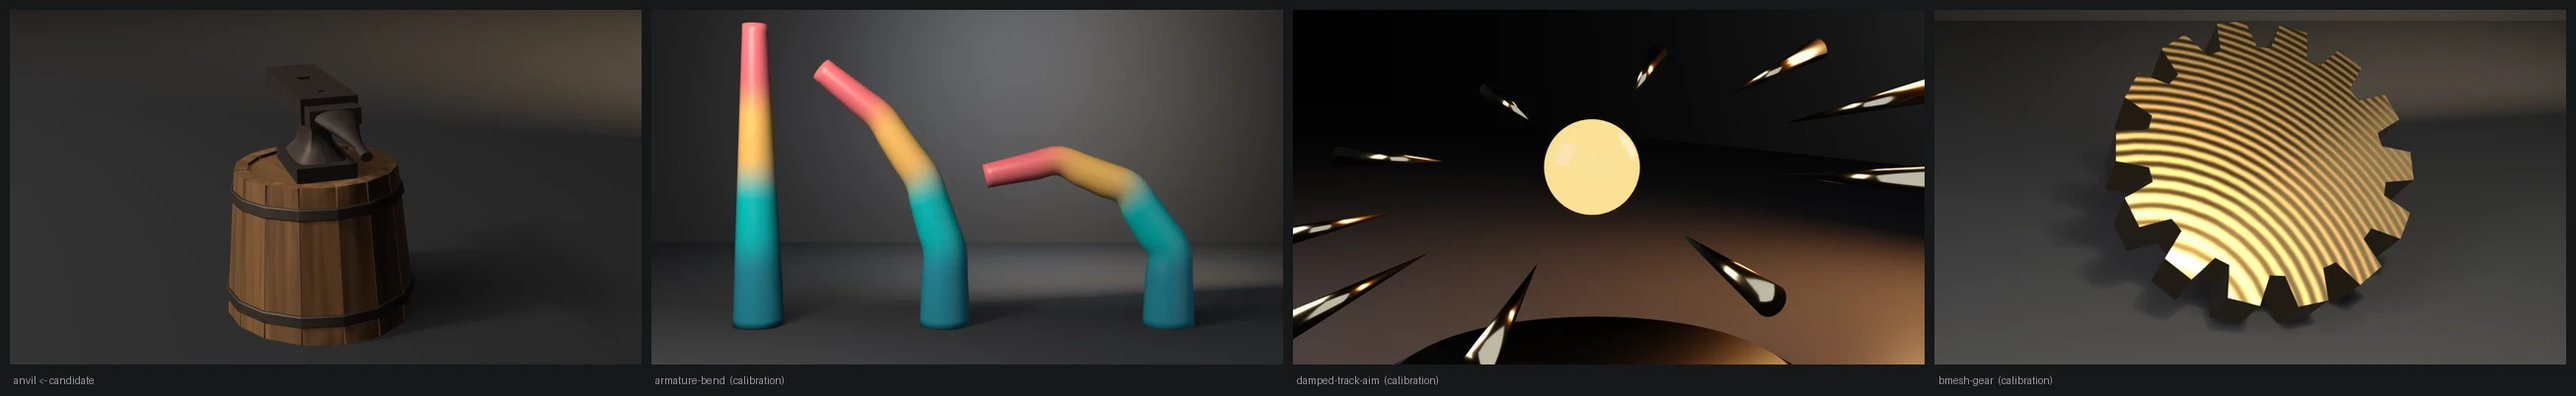
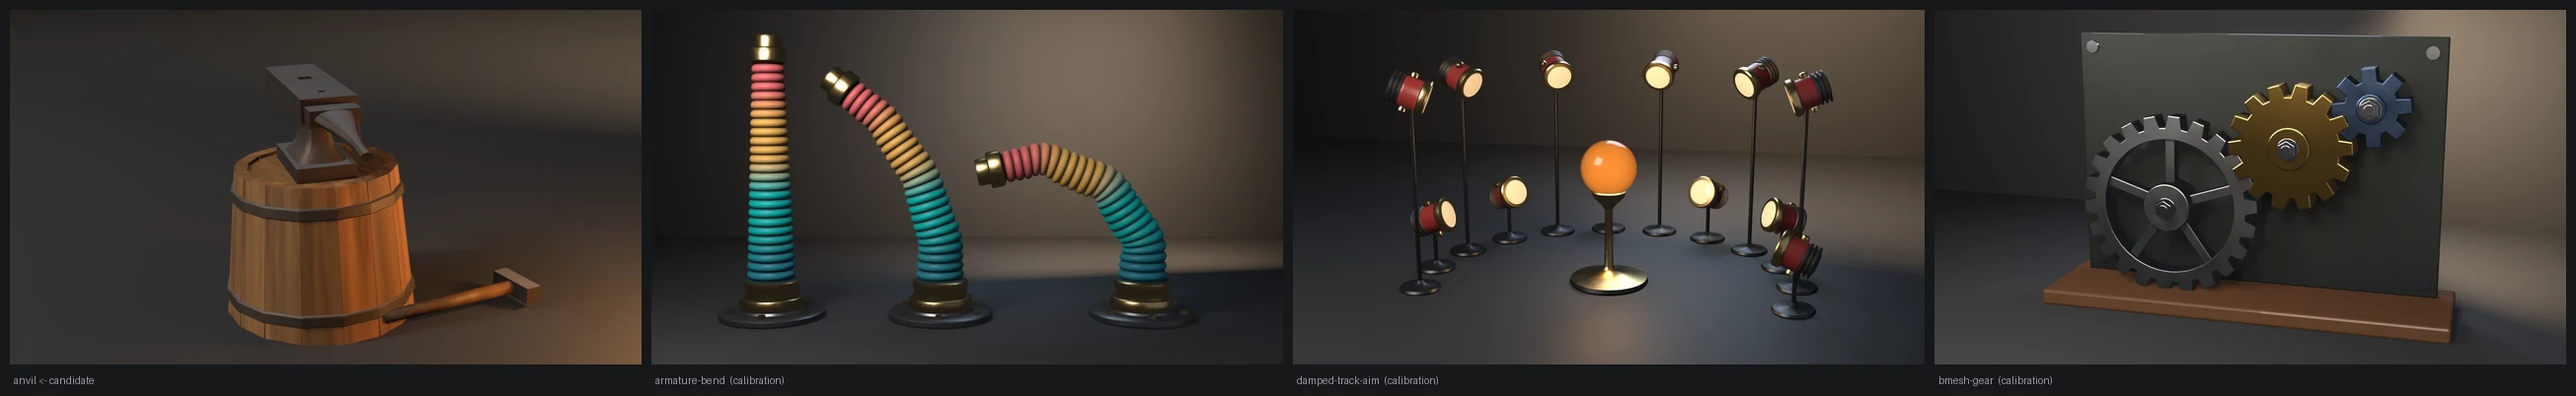
fix(showcase): dress the anvil hero with a polished face, a hammer and forge light
The anvil read as a uniformly dark block on its stump. The render path now
changes three things:
- polish_face() mixes up-facing steel (the working face and the top of the
  horn) toward bright, low-roughness metal, driven by the geometry normal,
  so the face reads as hammer-worn.
- build_hammer() lays a render-only cross-peen hammer on the floor beside
  the stump. It is added to the framing gate's element set, so it must
  clear the frame edges too.
- A low warm point light off frame stands in for the forge and puts an
  orange edge on the steel and stump.
The checked mesh, budgets and checks are unchanged.

Evidence (live runs, local; E:\Blender-Developer-Tools\.scratch binaries):
- blender-5.2.1-windows-x64 (Blender 5.2.1 LTS) and
  blender-4.5.11-windows-x64 (Blender 4.5.11 LTS): default exit 0 on
  both. Falsifiers on both: --skip-decimate 9, --stray-vert 15,
  --lift-z 16, --short-staves 16, --float-anvil 17, --round-band 18,
  --round-waist 19.
- Framing (5.2.1): fill x=0.297 y=0.800, margins l=0.344 r=0.159
  b=0.050 t=0.150. The first hammer placement crossed the bottom edge
  (exit 10); it now lies beside the stump.
- Contact sheet: luma 0.212, stage 0.214, warmth +0.334, sat 0.226.
- Asset sheet (docs/gallery/asset-sheets/anvil.webp): the face polish
  reads at sheet scale, and the anvil is not the least-designed object in
  the lineup.

diff --git a/showcase/anvil/anvil.py b/showcase/anvil/anvil.py
@@ -1417,6 +1417,70 @@ def check(
     return 0, low, high, wood, tex, collider
 
 
+def polish_face(mat):
+    """Render only: up-facing steel (the working face and horn top) is worn
+    bright by the hammer, the flanks keep the dark forge scale."""
+    nt = mat.node_tree
+    bsdf = nt.nodes["Principled BSDF"]
+    geo = nt.nodes.new("ShaderNodeNewGeometry")
+    sep = nt.nodes.new("ShaderNodeSeparateXYZ")
+    nt.links.new(geo.outputs["Normal"], sep.inputs["Vector"])
+    ramp = nt.nodes.new("ShaderNodeMapRange")
+    ramp.inputs["From Min"].default_value = 0.82
+    ramp.inputs["From Max"].default_value = 0.97
+    nt.links.new(sep.outputs["Z"], ramp.inputs["Value"])
+    for sock_name, bright in (("Base Color", (0.50, 0.50, 0.52, 1.0)), ("Roughness", 0.16)):
+        sock = bsdf.inputs[sock_name]
+        src = sock.links[0].from_socket if sock.is_linked else None
+        mix = nt.nodes.new("ShaderNodeMix")
+        mix.data_type = "RGBA" if sock_name == "Base Color" else "FLOAT"
+        a_in, b_in = mix.inputs["A"], mix.inputs["B"]
+        if mix.data_type == "RGBA":
+            a_in = [i for i in mix.inputs if i.name == "A" and i.type == "RGBA"][0]
+            b_in = [i for i in mix.inputs if i.name == "B" and i.type == "RGBA"][0]
+        else:
+            a_in = [i for i in mix.inputs if i.name == "A" and i.type == "VALUE"][0]
+            b_in = [i for i in mix.inputs if i.name == "B" and i.type == "VALUE"][0]
+        if src is not None:
+            nt.links.new(src, a_in)
+        else:
+            a_in.default_value = sock.default_value
+        b_in.default_value = bright
+        fac = mix.inputs.get("Factor") or mix.inputs.get("Fac")
+        nt.links.new(ramp.outputs["Result"], fac)
+        out = [o for o in mix.outputs if o.name == "Result" and
+               o.type == ("RGBA" if mix.data_type == "RGBA" else "VALUE")][0]
+        nt.links.new(out, sock)
+
+
+def build_hammer(scene, steel, wood):
+    """Render only: a cross-peen hammer lying on the floor against the stump."""
+    me = bpy.data.meshes.new("Hammer")
+    bm = bmesh.new()
+    try:
+        res = bmesh.ops.create_cone(bm, cap_ends=True, segments=12, radius1=0.013,
+                                    radius2=0.015, depth=0.34)
+        for v in res["verts"]:
+            v.co = Vector((v.co.z, v.co.y, v.co.x))       # handle along +X
+        head = bmesh.ops.create_cube(bm, size=1.0)
+        for v in head["verts"]:
+            v.co = Vector((v.co.x * 0.036 + 0.17, v.co.y * 0.115, v.co.z * 0.036))
+        head_faces = {f for v in head["verts"] for f in v.link_faces}
+        for f in bm.faces:
+            f.material_index = 1 if f in head_faces else 0
+            f.smooth = f not in head_faces
+        bm.to_mesh(me)
+    finally:
+        bm.free()
+    me.materials.append(wood)
+    me.materials.append(steel)
+    ob = bpy.data.objects.new("Hammer", me)
+    ob.location = (0.27, 0.10, 0.036)
+    ob.rotation_euler = (0.0, 0.0, math.radians(62.0))
+    scene.collection.objects.link(ob)
+    return ob
+
+
 def render_still(low, _wood, _tex, path, engine):
     scene = bpy.context.scene
     for ob in list(scene.objects):
@@ -1465,9 +1529,21 @@ def render_still(low, _wood, _tex, path, engine):
         ob.rotation_euler = tuple(math.radians(a) for a in rot)
         scene.collection.objects.link(ob)
 
-    light("Key", (-3.6, -5.0, 5.4), 660.0, 4.0, (1.0, 0.94, 0.86), (50, 0, -36))
+    light("Key", (-3.6, -5.0, 5.4), 620.0, 3.0, (1.0, 0.94, 0.86), (50, 0, -36))
     light("Fill", (5.0, -3.4, 2.4), 46.0, 8.0, (0.72, 0.82, 1.0), (62, 0, 50))
     light("Wedge", (2.2, 4.0, 3.8), 600.0, 5.5, (1.0, 0.70, 0.40), (-70, 0, 198))
+    # an off-frame forge: a low warm point to one side, so the steel picks up
+    # an orange edge the way an anvil does in a working smithy
+    forge = bpy.data.lights.new("Forge", "POINT")
+    forge.energy = 55.0
+    forge.color = (1.0, 0.45, 0.14)
+    forge.shadow_soft_size = 0.25
+    forge_ob = bpy.data.objects.new("Forge", forge)
+    forge_ob.location = (0.95, 0.35, 0.42)
+    scene.collection.objects.link(forge_ob)
+
+    polish_face(low.data.materials[METAL_IDX])
+    hammer = build_hammer(scene, low.data.materials[METAL_IDX], _wood)
 
     bb = world_bbox(low)
     span = max(bb[3] - bb[0], bb[4] - bb[1], bb[5] - bb[2], 0.2)
@@ -1505,7 +1581,7 @@ def render_still(low, _wood, _tex, path, engine):
     scene.view_settings.view_transform = "Standard"
 
     fcode = gallery_framing.check_framing(
-        scene, cam, hero=[low], elements=[low], stage=[floor, wall],
+        scene, cam, hero=[low], elements=[low, hammer], stage=[floor, wall],
     )
     if fcode:
         return fcode

diff --git a/README.md b/README.md
@@ -122,7 +122,7 @@ Budget-conformance props. Not examples. Conventions: [`showcase/README.md`](show
   <a href="showcase/cart/"><img src="showcase/cart/preview.webp" width="24%" alt="Cart: a two-wheel wooden cart with spoked wheels, slatted bed, and shafts on a dark studio floor" /></a>
   <a href="showcase/park-bench/"><img src="showcase/park-bench/preview.webp" width="24%" alt="Park bench: a wrought-iron bench whose round-bar legs curl into scrolled feet, with wooden slats and a reclined back, on a dark studio floor" /></a>
   <a href="showcase/wheelbarrow/"><img src="showcase/wheelbarrow/preview.webp" width="24%" alt="Wheelbarrow: a wooden tray with walls of stacked boards and iron straps, a spoked wheel, rear legs, and handles on a dark studio floor" /></a>
-  <a href="showcase/anvil/"><img src="showcase/anvil/preview.webp" width="24%" alt="Anvil: a dark forged-steel London-pattern anvil with a flared, squared waist on a hooped timber stump on a dark studio floor" /></a>
+  <a href="showcase/anvil/"><img src="showcase/anvil/preview.webp" width="24%" alt="Anvil: a forged-steel London-pattern anvil with a hammer-polished face on a hooped timber stump, a hammer at its foot" /></a>
   <a href="showcase/water-trough/"><img src="showcase/water-trough/preview.webp" width="24%" alt="Water trough: a watertight wooden trough with plank ends, contained water, and trestle legs on a dark studio floor" /></a>
   <a href="showcase/hitching-post/"><img src="showcase/hitching-post/preview.webp" width="24%" alt="Hitching post: a square timber post with a pyramidal cap, cross-arm, iron bands wrapped around it, two hitching rings and a nailed horseshoe on a dark studio floor" /></a>
   <a href="showcase/grindstone/"><img src="showcase/grindstone/preview.webp" width="24%" alt="Grindstone: a stone wheel on a timber A-frame with an iron axle, hubs, crank, and tray on a dark studio floor" /></a>

diff --git a/showcase/anvil/README.md b/showcase/anvil/README.md
@@ -87,6 +87,13 @@ it is now dark forged steel with rust. Staves and head carry their own
 wood tone and grain. The stage grid grew from 14 to 60 m. The temp `.glb`
 is removed after its size is measured.
 
+The hero dresses the scene without touching the checked mesh: up-facing
+steel (the working face and the top of the horn) is mixed toward bright,
+low-roughness metal by the geometry normal, as a hammer polishes it; a
+render-only cross-peen hammer lies on the floor beside the stump; and a
+low warm point light off frame stands in for the forge. The hammer is in
+the framing gate's element set, so it has to clear the frame edges too.
+
 ### Falsifiers
 
 Each violates one named budget. All seven were run on 4.5.11, 5.1.2 and
